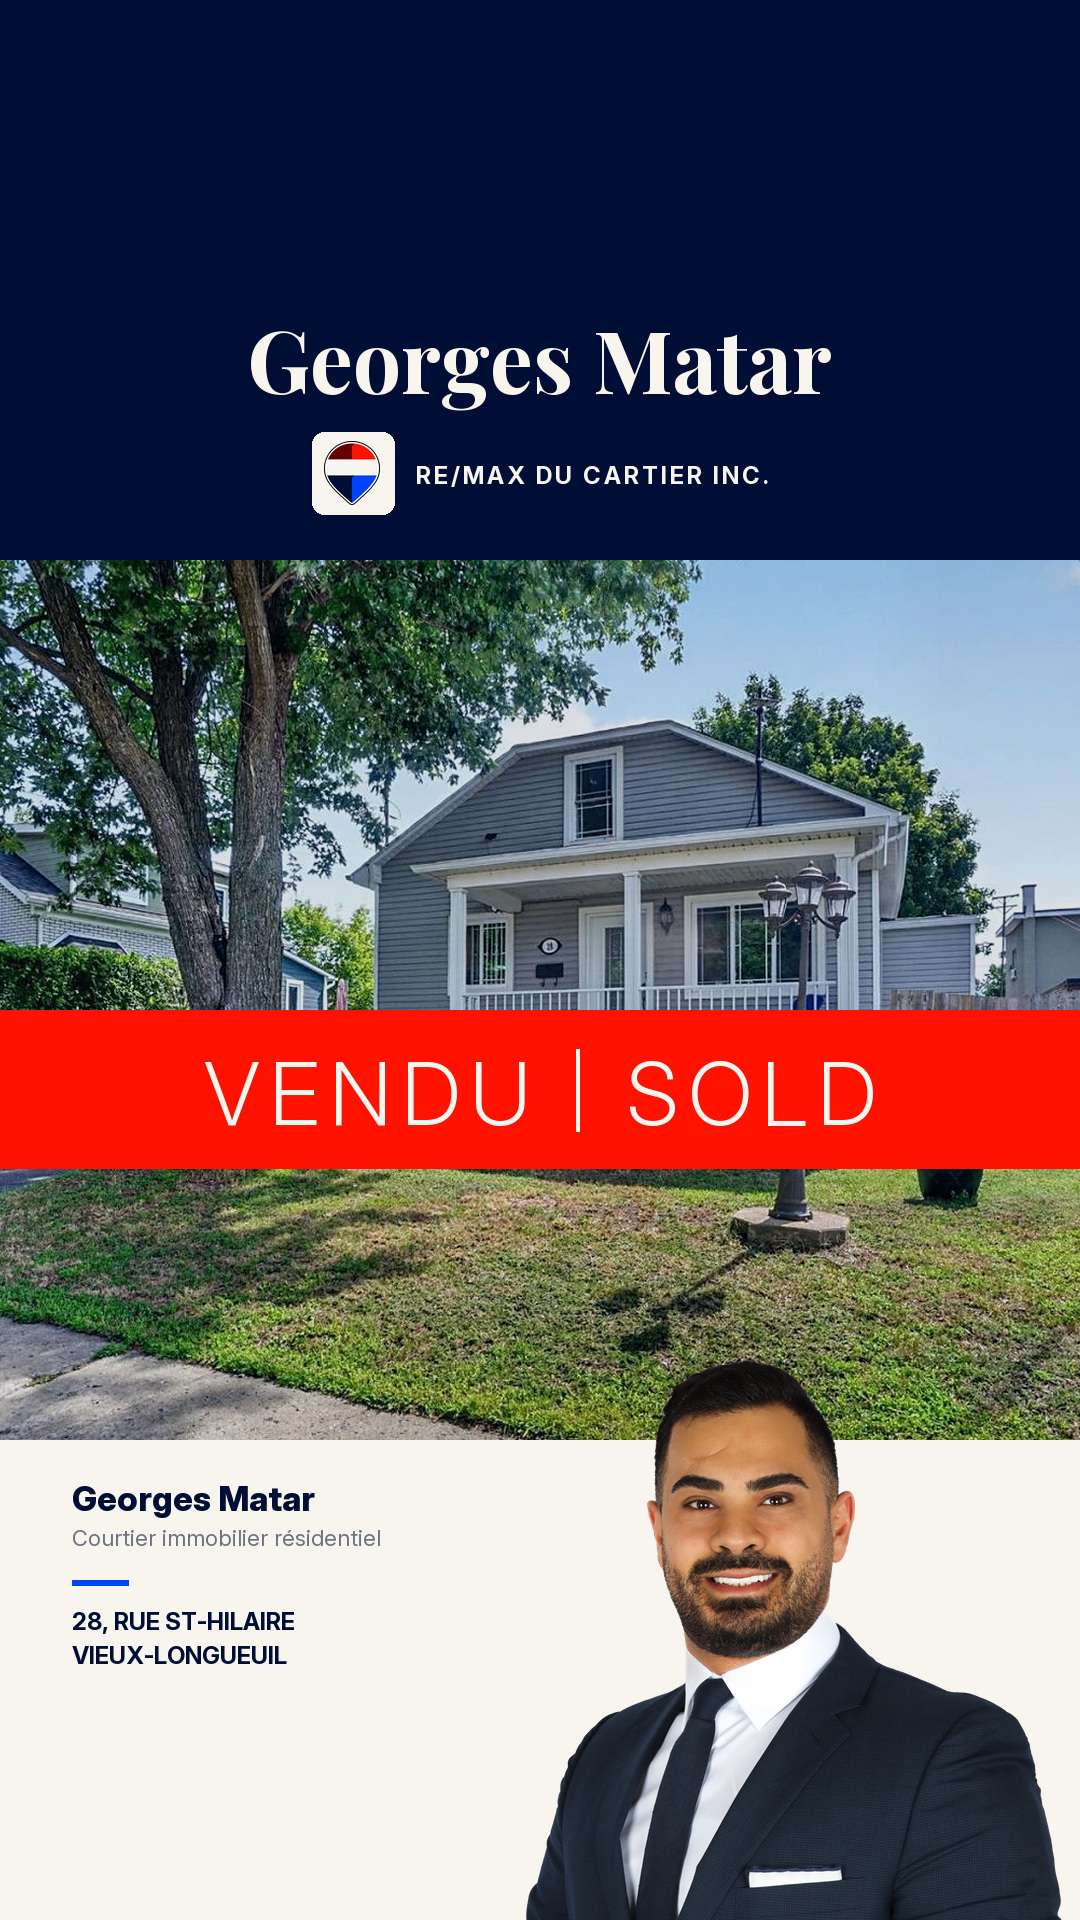
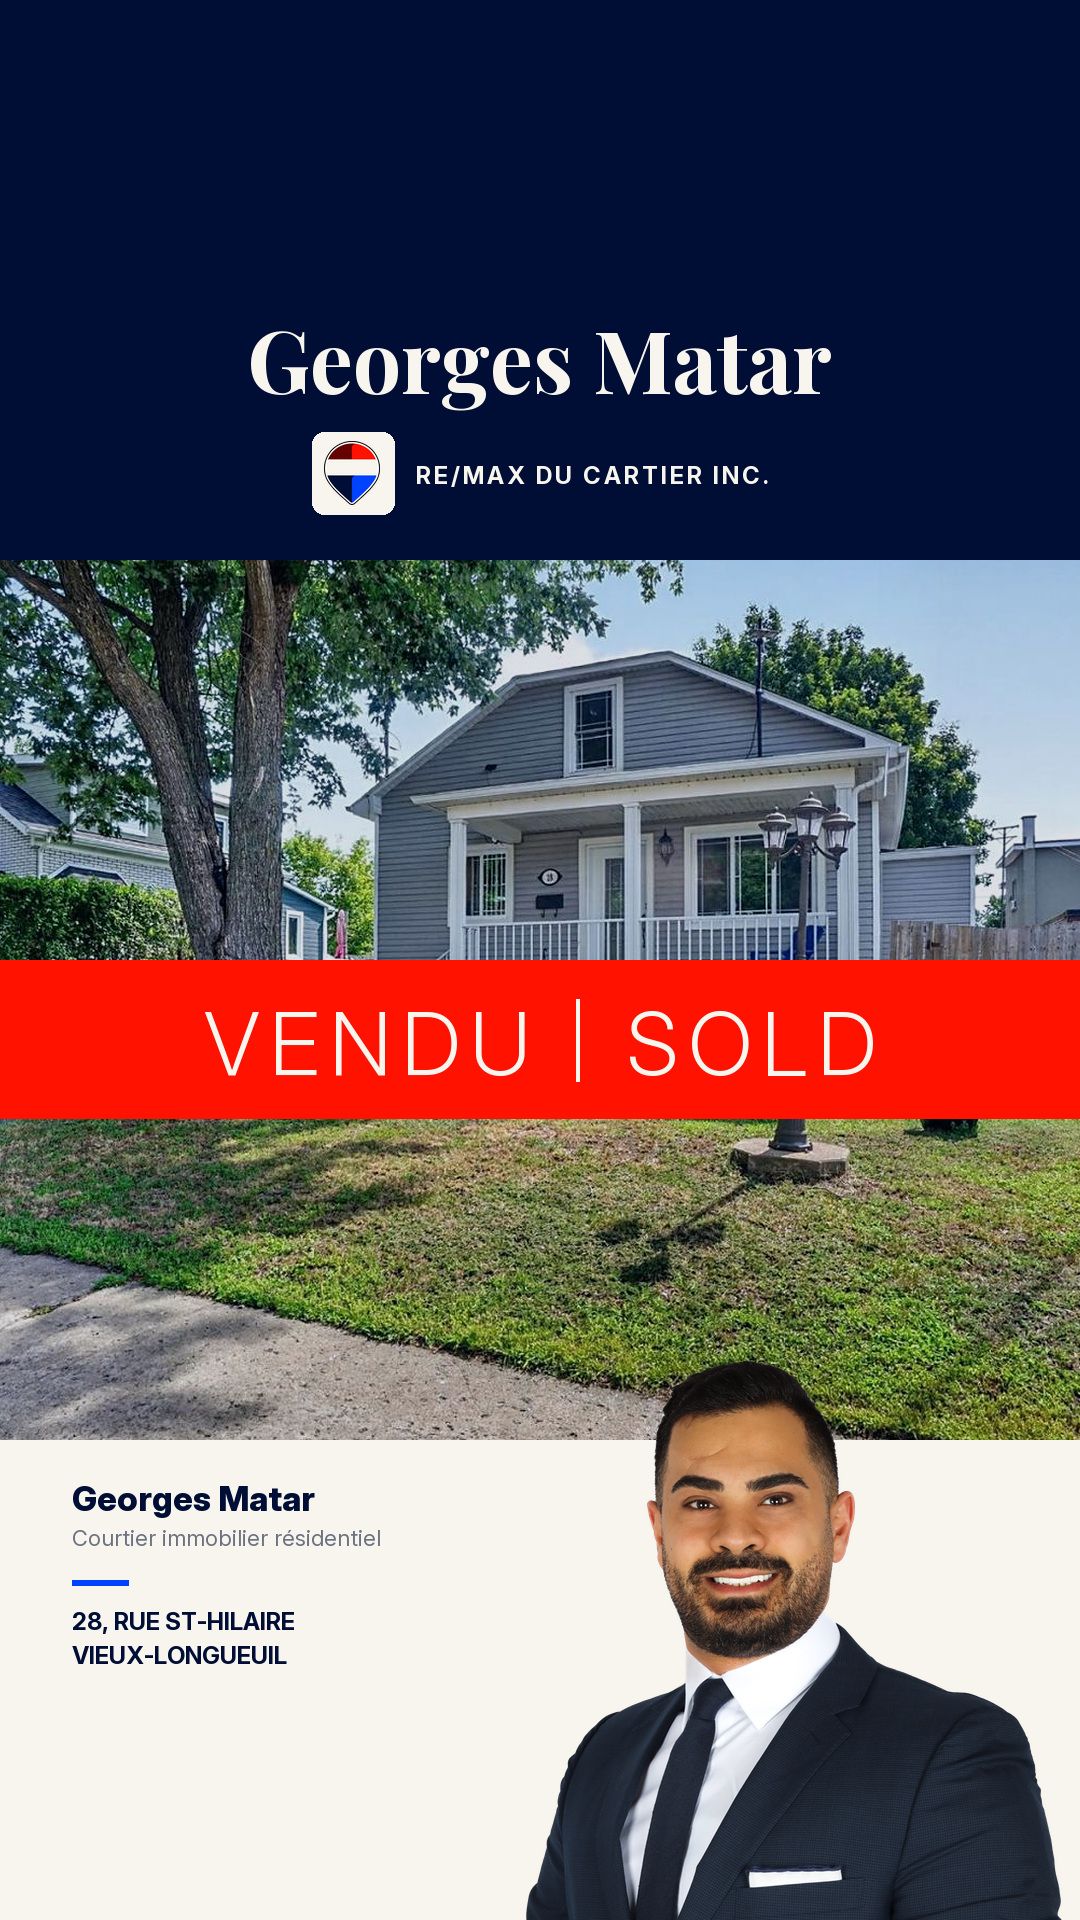
fix: le bandeau VENDU a la meme hauteur sur toutes les couvertures de reel
Dans la grille du profil, le rouge passait a 880 px sur Mirabel et a 1010 px
sur Longueuil: d une vignette a l autre, il sautait de pres d un dixieme de
la hauteur, et les deux reels VENDU ne se lisaient plus comme une serie.

Le bandeau de la couverture est maintenant fixe a 960 px pour toutes les
proprietes, sans correction possible. C est la photo qui se recadre autour de
lui, avec cadrage_couverture:

- Longueuil remonte (fy 0,54 a 0,80) pour que toute la galerie passe au
  dessus du rouge
- Mirabel descend un peu (zoom 1,06, fy 0) pour que le rez de chaussee passe
  dessous

960 et non le milieu exact de la vignette: plus haut, le rouge coupait la
galerie de Longueuil, que le cadrage ne peut plus remonter.

Les publications 4:5 ne changent pas, au pixel pres. Les commentaires
parlent aussi du recadrage 3:4 de la grille, celui qu Instagram applique
aujourd hui, et non plus du 4:5.

diff --git a/carrousel-instagram/vendu/generer-post-vendu.py b/carrousel-instagram/vendu/generer-post-vendu.py
@@ -14,7 +14,7 @@ le meme fichier. Instagram recadre une image 4:5 posee en couverture de reel:
 il garde les 70 pour cent du milieu et coupe 15 pour cent de chaque cote. Le
 nom et l adresse, qui commencent sur la marge de gauche, s y font manger. La
 couverture est donc dessinee en 9:16, et tout ce qui compte tient dans la
-bande centrale que la grille du profil recadre en 4:5.
+bande centrale que la grille du profil recadre en 3:4.
 
 Le visuel courant du marche montrealais, monte comme une pancarte RE/MAX:
 trois aplats et rien d autre.
@@ -75,43 +75,52 @@ EQUIPE = "Équipe Pistoli"
 CONTACT = "438 372-0102   ·   WWW.GEORGESMATAR.CA"
 
 
-# Les deux geometries. `bandeau` est la valeur par defaut, une propriete peut
-# la corriger pour que le rouge ne coupe pas la maison.
+# Les deux geometries. Sur la publication, `bandeau` est la valeur par
+# defaut, une propriete peut la corriger pour que le rouge ne coupe pas la
+# maison.
 #
-# Pour la couverture, le bandeau est cale sur le centre vertical de l image:
-# la grille du profil recadre le 9:16 en 4:5, soit la bande de 285 a 1635, et
-# c est le milieu de cette bande que l oeil voit en vignette.
+# Sur la couverture, `bandeau` est le meme pour toutes les proprietes, sans
+# exception: les reels VENDU se suivent dans la grille du profil, et un rouge
+# qui saute d une vignette a l autre se voit tout de suite. C est la photo
+# qui se recadre autour du bandeau, avec `cadrage_couverture`, jamais
+# l inverse. La grille recadre le 9:16 en 3:4, soit la bande de 240 a 1680.
+# Le bandeau passe a 960, un peu sous le milieu de cette bande: plus haut, il
+# coupait la galerie de Longueuil, que le cadrage ne peut plus remonter.
 #
 # `nom` et `pastille` sont des hauteurs absolues et non un centrage: sur la
-# couverture, elles descendent volontairement sous la ligne des 285 px, la
-# ou commence le recadrage 4:5. Centrees, elles tombaient hors vignette et la
-# grille du profil n affichait qu une bande navy vide.
+# couverture, elles descendent volontairement sous la ligne des 240 px, la
+# ou commence le recadrage de la grille. Centrees, elles tombaient hors
+# vignette et la grille du profil n affichait qu une bande navy vide.
 FORMATS = {
     "publication": dict(fichier="publication-vendu.jpg", h=1350, entete=330,
                         nom=82, pastille=216, photo=(330, 970), bandeau=596,
                         portrait=468),
     "couverture":  dict(fichier="couverture-vendu.jpg", h=1920, entete=560,
-                        nom=300, pastille=432, photo=(560, 1440), bandeau=880,
+                        nom=300, pastille=432, photo=(560, 1440), bandeau=960,
                         portrait=560),
 }
 
 
 # zoom: 1.0 garde la photo entiere sur la largeur. Au dela, on se rapproche
 # du sujet, et fx, fy disent de quel cote on garde ce qui reste.
+# `cadrage_couverture` corrige ces trois valeurs pour la couverture seule.
 PROPRIETES = [
-    # bandeau et bandeau_couverture: la hauteur ou passe le rouge dans chaque
-    # format. Il se place la ou il ne coupe pas la maison.
+    # bandeau: la hauteur ou passe le rouge sur la publication, la ou il ne
+    # coupe pas la maison. Sur la couverture, le bandeau ne bouge pas, et
+    # la photo remonte pour que toute la galerie passe au dessus du rouge.
     dict(slug="28-rue-st-hilaire-longueuil",
          photo=os.path.join(STH, "03.jpg"), zoom=1.30, fx=0.53, fy=0.54,
-         bandeau=700, bandeau_couverture=1010,
+         bandeau=700, cadrage_couverture=dict(fy=0.80),
          adresse=["28, RUE ST-HILAIRE", "LONGUEUIL (VIEUX-LONGUEUIL)"],
          adresse_courte=["28, RUE ST-HILAIRE", "VIEUX-LONGUEUIL"]),
 
     # la vue de la rue plutot que la facade: le grand pin et le rang disent
     # la campagne en une seconde, et la facade de cote montrait la
-    # bonbonne de propane et la generatrice
+    # bonbonne de propane et la generatrice. Sur la couverture, la photo
+    # descend un peu pour que le rez de chaussee passe sous le rouge.
     dict(slug="4071-rang-saint-hyacinthe-mirabel",
          photo="23-Vue de la rue.png", zoom=1.0, fx=0.5, fy=0.50,
+         cadrage_couverture=dict(zoom=1.06, fy=0.0),
          adresse=["4071, RANG SAINT-HYACINTHE",
                   "MIRABEL (SAINT-HERMAS)"],
          adresse_courte=["4071, RANG SAINT-HYACINTHE",
@@ -146,17 +155,20 @@ def entete(c, g):
     tracked(d, (x + cote + 22, y + cote / 2 - 13), lbl, fl, CREME, 3)
 
 
-def bande_photo(c, prop, g):
+def bande_photo(c, prop, g, cle):
     """La facade, pleine largeur, a peine assombrie: le bandeau rouge suffit
     a porter le texte, inutile d etouffer la photo."""
+    r = dict(prop)
+    if cle == "couverture":
+        r.update(prop.get("cadrage_couverture", {}))
     y0, y1 = g["photo"]
     h = y1 - y0
-    z = prop.get("zoom", 1.0)
-    im = remplir(moteur._ouvrir(prop["photo"]), int(W * z), int(h * z),
-                 prop.get("fx", 0.5), prop.get("fy", 0.5))
+    z = r.get("zoom", 1.0)
+    im = remplir(moteur._ouvrir(r["photo"]), int(W * z), int(h * z),
+                 r.get("fx", 0.5), r.get("fy", 0.5))
     if z != 1.0:                        # on recadre au centre du sujet vise
-        x = int((im.width - W) * prop.get("fx", 0.5))
-        y = int((im.height - h) * prop.get("fy", 0.5))
+        x = int((im.width - W) * r.get("fx", 0.5))
+        y = int((im.height - h) * r.get("fy", 0.5))
         im = im.crop((x, y, x + W, y + h))
     im = im.filter(ImageFilter.UnsharpMask(2, 48, 3)).convert("RGBA")
     im.alpha_composite(Image.new("RGBA", (W, h), NAVY + (34,)))
@@ -170,9 +182,9 @@ def bandeau_vendu(c, prop, g, cle):
     le seul traitement qui reste lisible dans une vignette de fil, et c est
     le code couleur que tout le monde associe deja a RE/MAX.
     """
-    defaut = prop.get("bandeau" if cle == "publication"
-                      else "bandeau_couverture")
-    haut = defaut if defaut else g["bandeau"]
+    # la couverture ignore toute correction: meme hauteur pour tous les reels
+    haut = prop.get("bandeau") if cle == "publication" else None
+    haut = haut or g["bandeau"]
     bas = haut + 158
     d = ImageDraw.Draw(c)
     # aplat plein, sans filet ni transparence: une pancarte, pas un calque
@@ -281,7 +293,7 @@ def fabriquer(prop, cle):
     g = FORMATS[cle]
     c = Image.new("RGBA", (W, g["h"]), CREME + (255,))
     entete(c, g)
-    bande_photo(c, prop, g)
+    bande_photo(c, prop, g, cle)
     bandeau_vendu(c, prop, g, cle)
     if cle == "publication":
         pied_publication(c, prop, g)

diff --git a/carrousel-instagram/vendu/README.md b/carrousel-instagram/vendu/README.md
@@ -20,12 +20,18 @@ commencent sur la marge de gauche, s'y font manger.
 La couverture est donc dessinée en 9:16, et deux choses y sont calées
 exprès:
 
-- le nom du courtier descend sous la ligne des 285 px, là où commence le
-  recadrage 4:5 de la grille du profil. Centré comme sur la publication, il
+- le nom du courtier descend sous la ligne des 240 px, là où commence le
+  recadrage 3:4 de la grille du profil. Centré comme sur la publication, il
   tombait hors vignette et la grille n'affichait qu'une bande navy vide;
-- le bandeau rouge se place dans la bande de 285 à 1635 px, celle que l'oeil
+- le bandeau rouge se place dans la bande de 240 à 1680 px, celle que l'oeil
   voit en vignette, et le pied laisse le bas de l'écran libre puisque
   l'interface d'Instagram le recouvre pendant la lecture.
+
+**Le bandeau de la couverture est à la même hauteur pour toutes les
+propriétés: 960 px.** Les reels VENDU se suivent dans la grille du profil, et
+un rouge qui saute d'une vignette à l'autre se voit tout de suite. Ce n'est
+donc pas le bandeau qui s'adapte à la maison, c'est la photo qui se recadre
+autour du bandeau, avec `cadrage_couverture`.
 
 Le pied de la couverture est aussi plus maigre que celui de la publication:
 pas de téléphone, pas de site, pas de mention d'équipe. Une couverture est
@@ -88,8 +94,16 @@ python "carrousel-instagram/vendu/generer-post-vendu.py" mirabel   une seule
 Quelques secondes par image. Le choix de la photo et son cadrage se règlent en
 haut de `generer-post-vendu.py`: `zoom` à 1,0 garde la photo entière sur la
 largeur, au delà on se rapproche, et `fx`, `fy` disent de quel côté on garde
-ce qui reste. `bandeau` donne la hauteur du bandeau rouge: il se place là où
-il ne coupe pas la maison, sous elle à Longueuil, dans les arbres à Mirabel.
+ce qui reste. `bandeau` donne la hauteur du bandeau rouge sur la publication:
+il se place là où il ne coupe pas la maison, sous elle à Longueuil, dans les
+arbres à Mirabel.
+
+Sur la couverture, `bandeau` n'existe pas par propriété: le rouge reste à
+960 px. `cadrage_couverture` corrige alors `zoom`, `fx` et `fy` pour la
+couverture seule, sans toucher à la publication. À Longueuil, la photo remonte
+pour que toute la galerie passe au dessus du rouge. À Mirabel, elle descend un
+peu pour que le rez de chaussée passe dessous. Une nouvelle propriété garde le
+960 et cherche son cadrage.
 
 Pour Mirabel, c'est la vue de la rue et non la façade: le grand pin et le rang
 disent la campagne en une seconde, alors que la façade de côté montrait la
